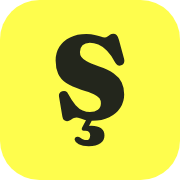
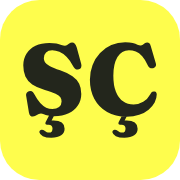
Şeyma'nın kararları uygulandı (18 sorunun cevabı)
FAVICON: tek harf 'Ş' yerine iki harfli 'ŞÇ' monogramı. Her iki glif de
  Fraunces 900'den path olarak çıkarıldı (Ş ext, Ç latin alt kümesinde).
  180/192/512 px ikonlar yenilendi. 32 pikselde okunur.

SAKLAMA SÜRESİ: onaylanmayan notlar 30 gün yerine 7 GÜN sonra silinir.
  Kod ve /defter + /en/guestbook metinleri güncellendi. Onaylı notlar
  hiç silinmez.

PROJE ROZETİ: 'Depo kapalı — yarışma sürüyor' yerine 'Geliştirme
  aşamasında'. Yarışmadan bahsetmiyor, yalnızca durumu söylüyor.

BLOG: KURULMAYACAK. İki yazılık boş bir bölüm, hiç olmamasından kötüdür.
  İçerik koleksiyonu altyapısı da bu yüzden eklenmedi.

İLETİŞİM UCU (functions/api/contact.ts) — form artık sunucuya gidiyor
  - Mesaj içeriği VERİTABANINA KAYDEDİLMEZ, yalnızca iletilir
  - RESEND_API_KEY tanımsızsa 503 -> arayüz otomatik mailto'ya düşer,
    yani anahtar gelene kadar site bugünkü davranışını sürdürür
  - Honeypot alanı + saatte 3 gönderim sınırı (contact_hits tablosu,
    yalnızca tuzlanmış IP özeti ve zaman; 1 saat sonra silinir)
  - Turnstile şimdilik KAPALI (Şeyma istemedi) ama TURNSTILE_SECRET
    tanımlanırsa kod değişikliği olmadan devreye girer
  - Gönderim durumu ekranda (role=status), sayfa yenilenmiyor
  DOĞRULANDI: anahtarsız 503, honeypot 200 (kayıt yok), geçersiz
  e-posta 400, kısa mesaj 400.

ÖNİZLEME VERİTABANI: kisisel-site-preview oluşturuldu, şema uygulandı.
  wrangler.toml artık production/preview ortamlarını ayırıyor — bir dalda
[…]

Changed region(s): [[0.1111, 0.1667, 0.8889, 0.8333]]

diff --git a/functions/api/contact.ts b/functions/api/contact.ts
@@ -1,0 +1,135 @@
+// İletişim formu — POST /api/contact
+//
+// Form eskiden sunucuya HİÇ istek atmıyor, kullanıcının e-posta istemcisini
+// açıyordu. Gmail'i tarayıcıdan kullanan veya kurumsal cihazdaki bir işe alım
+// uzmanı için bu genelde boş bir pencere demek: mesaj hiç ulaşmıyordu.
+//
+// TASARIM KARARLARI
+// - Mesaj içeriği VERİTABANINA KAYDEDİLMEZ; yalnızca iletilir.
+// - RESEND_API_KEY tanımsızsa 503 döner; arayüz otomatik mailto'ya düşer.
+//   Yani anahtar gelene kadar site bugünkü davranışını sürdürür, bozulmaz.
+// - Hız sınırı IP özetiyle (mevcut hashIp) saatte 3 gönderim.
+// - Honeypot alanı dolu ise 200 döner ama HİÇBİR ŞEY gönderilmez.
+// - Turnstile şimdilik kapalı (Şeyma istemedi); TURNSTILE_SECRET tanımlanırsa
+//   doğrulama otomatik devreye girer, kod değişikliği gerekmez.
+
+import { json, asObject, hashIp, sameOrigin, logError, type BaseEnv } from "./_shared";
+
+interface Env extends BaseEnv {
+  /** E-posta sağlayıcısı anahtarı. Yoksa uç 503 döner (arayüz mailto'ya düşer). */
+  RESEND_API_KEY?: string;
+  /** Mesajların gideceği adres. Yoksa site sahibinin adresi kullanılır. */
+  CONTACT_TO?: string;
+  /** Tanımlıysa bot doğrulaması devreye girer. */
+  TURNSTILE_SECRET?: string;
+}
+
+const SAATLIK_SINIR = 3;
+const AD_MAX = 80;
+const EPOSTA_MAX = 160;
+const MESAJ_MAX = 2000;
+
+const temizle = (s: unknown, max: number): string =>
+  String(s ?? "")
+    .slice(0, max * 4)
+    // eslint-disable-next-line no-control-regex
+    .replace(/[-]/g, " ")
+    .replace(/\s+/g, " ")
+    .trim()
+    .slice(0, max);
+
+/** Kaba ama yeterli e-posta biçim kontrolü. */
+const epostaGecerli = (e: string): boolean => /^[^\s@]+@[^\s@]+\.[^\s@]{2,}$/.test(e);
+
+async function turnstileGecti(env: Env, jeton: string, ip: string): Promise<boolean> {
+  if (!env.TURNSTILE_SECRET) return true; // doğrulama kapalı
+  try {
+    const r = await fetch("https://challenges.cloudflare.com/turnstile/v0/siteverify", {
+      method: "POST",
+      headers: { "content-type": "application/json" },
+      body: JSON.stringify({ secret: env.TURNSTILE_SECRET, response: jeton, remoteip: ip }),
+    });
+    const d = (await r.json()) as { success?: boolean };
+    return d.success === true;
+  } catch {
+    return false; // doğrulanamıyorsa kapalı arızalan
+  }
+}
+
+export const onRequestPost: PagesFunction<Env> = async ({ request, env }) => {
+  if (!sameOrigin(request)) return json({ ok: false, error: "bad_request" }, 403);
+
+  const govde = asObject(await request.json().catch(() => null));
+  if (!govde) return json({ ok: false, error: "bad_request" }, 400);
+
+  // Honeypot: gerçek kullanıcı bu alanı göremez, botlar doldurur.
+  // Başarı gibi davran ki bot hangi kuralı aştığını öğrenemesin.
+  if (temizle(govde.website, 200)) return json({ ok: true, sent: true });
+
+  const ad = temizle(govde.name, AD_MAX);
+  const eposta = temizle(govde.email, EPOSTA_MAX);
+  const mesaj = temizle(govde.message, MESAJ_MAX);
+
+  if (ad.length < 2 || mesaj.length < 10 || !epostaGecerli(eposta)) {
+    return json({ ok: false, error: "invalid" }, 400);
+  }
+
+  const ip = request.headers.get("cf-connecting-ip") ?? "";
+  const ipHash = await hashIp(ip, env.IP_SALT);
+  if (!ipHash) return json({ ok: false, error: "unavailable" }, 503);
+
+  if (!(await turnstileGecti(env, String(govde.token ?? ""), ip))) {
+    return json({ ok: false, error: "verification" }, 403);
+  }
+
+  // Anahtar yoksa arayüz mailto'ya düşsün — site bozulmasın
+  if (!env.RESEND_API_KEY) return json({ ok: false, error: "unavailable" }, 503);
+
+  try {
+    // Saatlik sınır: mesaj metni SAKLANMADAN, yalnızca gönderim sayısı için
+    // ayrı bir tablo kullanılır (şema: contact_hits).
+    const birSaatOnce = new Date(Date.now() - 3600_000).toISOString();
+    const sayim = await env.DB.prepare(
+      "SELECT COUNT(*) AS n FROM contact_hits WHERE ip_hash = ? AND created_at > ?",
+    )
+      .bind(ipHash, birSaatOnce)
+      .first<{ n: number }>();
+
+    if ((sayim?.n ?? 0) >= SAATLIK_SINIR) {
+      return json({ ok: false, error: "rate_limited" }, 429, { "retry-after": "3600" });
+    }
+
+    const yanit = await fetch("https://api.resend.com/emails", {
+      method: "POST",
+      headers: {
+        authorization: `Bearer ${env.RESEND_API_KEY}`,
+        "content-type": "application/json",
+      },
+      body: JSON.stringify({
+        from: "Site formu <site@seymanurcebi.dev>",
+        to: [env.CONTACT_TO ?? "seymanurcebi6@gmail.com"],
+        reply_to: eposta,
+        subject: `Siteden mesaj — ${ad}`,
+        text: `${mesaj}\n\n---\nGönderen: ${ad} <${eposta}>`,
+      }),
+    });
+
+    if (!yanit.ok) {
+      logError("contact.provider", new Error(`sağlayıcı ${yanit.status}`), request);
+      return json({ ok: false, error: "unavailable" }, 503);
+    }
+
+    // Yalnızca sayaç kaydı — mesaj içeriği YAZILMAZ
+    await env.DB.prepare("INSERT INTO contact_hits (ip_hash, created_at) VALUES (?, ?)")
+      .bind(ipHash, new Date().toISOString())
+      .run();
+
+    // Eski kayıtları temizle (ip_hash gereğinden uzun tutulmasın)
+    await env.DB.prepare("DELETE FROM contact_hits WHERE created_at < ?").bind(birSaatOnce).run();
+
+    return json({ ok: true, sent: true });
+  } catch (err) {
+    logError("contact", err, request);
+    return json({ ok: false, error: "unavailable" }, 503);
+  }
+};

diff --git a/src/i18n/translations.ts b/src/i18n/translations.ts
@@ -232,7 +232,7 @@ export const tr = {
     retry: "Tekrar dene",
     loading: "Notlar yükleniyor…",
     privacy:
-      "Yalnızca yazdığın ad ve not saklanır. Spam önlemek için IP adresinin gizli bir anahtarla tuzlanmış özeti en fazla 1 saat tutulur, sonra silinir; ham IP hiç kaydedilmez. Onaylanmayan notlar 30 gün sonra otomatik silinir.",
+      "Yalnızca yazdığın ad ve not saklanır. Spam önlemek için IP adresinin gizli bir anahtarla tuzlanmış özeti en fazla 1 saat tutulur, sonra silinir; ham IP hiç kaydedilmez. Onaylanmayan notlar 7 gün sonra otomatik silinir.",
     viewsLabel: "ziyaret",
   },
 
@@ -245,6 +245,10 @@ export const tr = {
     fSend: "Gönder",
     fHint: "Gönder'e basınca e-posta uygulaman açılır.",
     fSubject: "Web sitesi — iletişim",
+    sending: "Gönderiliyor…",
+    sent: "Mesajın ulaştı, teşekkürler! En kısa sürede dönüş yapacağım.",
+    failed: "Gönderilemedi — e-posta uygulaman açılıyor.",
+    rateLimited: "Bugünlük bu kadar yeter :) Biraz sonra tekrar dene.",
     social: "SOSYAL MEDYA",
   },
 
@@ -476,7 +480,7 @@ export const en: Dict = {
     retry: "Try again",
     loading: "Loading notes…",
     privacy:
-      "Only the name and note you type are stored. To prevent spam a salted hash of your IP is kept for at most 1 hour, then deleted; the raw IP is never saved. Notes that are not approved are deleted automatically after 30 days.",
+      "Only the name and note you type are stored. To prevent spam a salted hash of your IP is kept for at most 1 hour, then deleted; the raw IP is never saved. Notes that are not approved are deleted automatically after 7 days.",
     viewsLabel: "visits",
   },
 
@@ -489,6 +493,10 @@ export const en: Dict = {
     fSend: "Send",
     fHint: "Pressing Send opens your email app.",
     fSubject: "Website contact",
+    sending: "Sending…",
+    sent: "Your message is on its way — thank you! I'll get back to you shortly.",
+    failed: "Couldn't send — opening your email app instead.",
+    rateLimited: "That's enough for now :) Please try again a bit later.",
     social: "SOCIAL MEDIA",
   },
 

diff --git a/src/styles/global.css b/src/styles/global.css
@@ -1971,3 +1971,25 @@ html:not(.js) .sidebar {
   outline: 2px solid var(--accent);
   outline-offset: 2px;
 }
+
+/* iletişim formu: bot tuzağı ve durum satırı */
+.hp-alan {
+  position: absolute;
+  width: 1px;
+  height: 1px;
+  overflow: hidden;
+  clip-path: inset(50%);
+  white-space: nowrap;
+}
+.form-durum {
+  margin-top: 4px;
+  padding: 10px 14px;
+  border-inline-start: 3px solid var(--highlight);
+  border-radius: 10px;
+  background: var(--panel);
+  font-size: 14px;
+  color: var(--body);
+}
+.form-durum[hidden] {
+  display: none;
+}

diff --git a/src/data/site.ts b/src/data/site.ts
@@ -24,10 +24,10 @@ export interface ProjectMeta {
 }
 
 export const PROJECTS: ProjectMeta[] = [
-  { href: null, state: "private" },
+  { href: null, state: "wip" },
   { href: "https://github.com/msgxr/teknofest-2026-kamu-evrak-akilli-ajan", state: "public" },
   { href: "https://github.com/cebi101/foundry-local-rag", state: "public" },
-  { href: null, state: "private" },
+  { href: null, state: "wip" },
   { href: "https://github.com/cebi101/YemekStes", state: "public" },
 ];
 

diff --git a/functions/api/guestbook.ts b/functions/api/guestbook.ts
@@ -23,8 +23,8 @@ const MAX_NAME = 40;
 const MAX_MESSAGE = 280;
 const MAX_BODY_BYTES = 4096;
 const RATE_LIMIT = 3; // aynı ziyaretçiden saatte en fazla
-/** Onaylanmayan notların saklanma süresi (gün) — KVKK. */
-const SAKLAMA_GUN = 30;
+/** Onaylanmayan notların saklanma süresi (gün) — KVKK. Şeyma'nın tercihi. */
+const SAKLAMA_GUN = 7;
 
 const LIST_LIMIT = 50;
 
